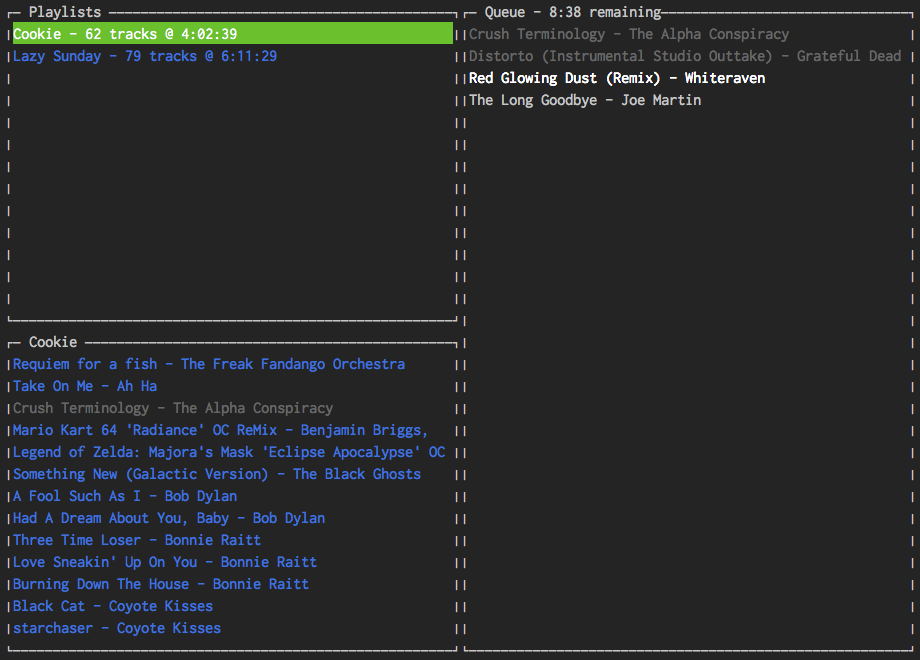
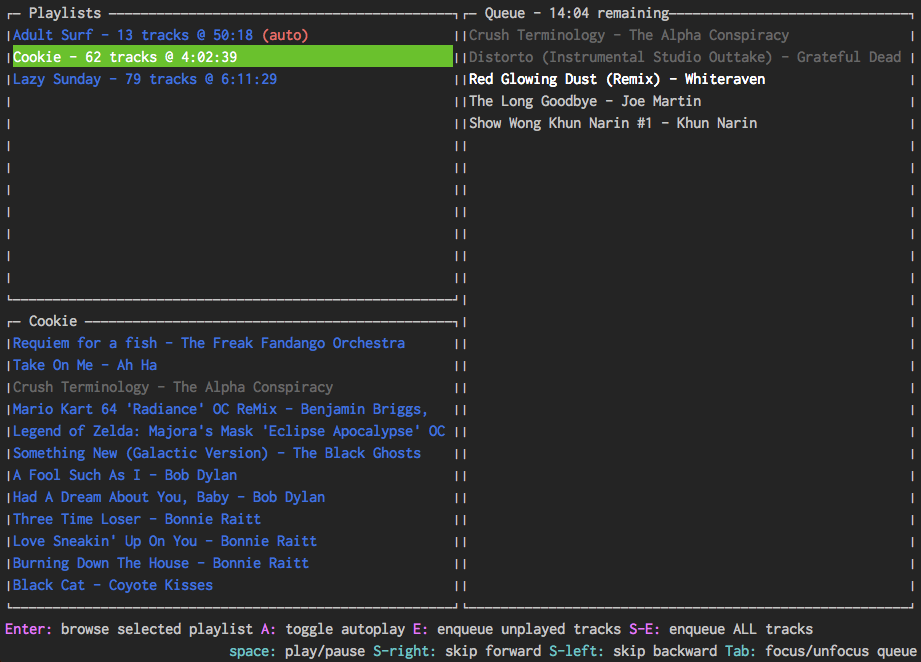
mass enqueue brings version to 0.2.0

Changed region(s): [[0.0, 0.0, 1.0, 1.0], [0.9739, 0.9091, 1.0, 0.9394]]

diff --git a/README.md b/README.md
@@ -16,12 +16,14 @@ From anywhere
 * `shift-right` and `shift-left` skip forward and backward in the queue
 
 From the playlist pane (app starts with it focused)
-* `enter` selects a playlist and expands the track pane.
-* `a` marks a playlist as "autoplay." The jukebox will pull from this list if the queue runs dry.
+* `enter` selects a playlist and expands the track pane
+* `a` marks a playlist as "autoplay." The jukebox will pull from this list if the queue runs dry
+* `e` enqueues all tracks at once, ignoring those already queued up. `shift-e` enqueues everything without checking
 
 From the track pane
 * `enter` enqueues a track
-* `escape` shrinks the pane and returns focus to the playlist pane.
+* `escape` shrinks the pane and returns focus to the playlist pane
+* `e` and `shift-e`, as above
 
 From the queue
 * `enter` skips directly to the selected track and plays it
@@ -42,7 +44,6 @@ A `Jukebox` loads the playlists, maintains the queue of tracks to play, and keep
 # To do
 
 1. The queue needs its own model to move logic out of Jukebox
-3. Ability to enqueue an entire playlist's tracks
 5. Remember progress of current track, so after pausing we can resume from where we left off
 
 # Bites
